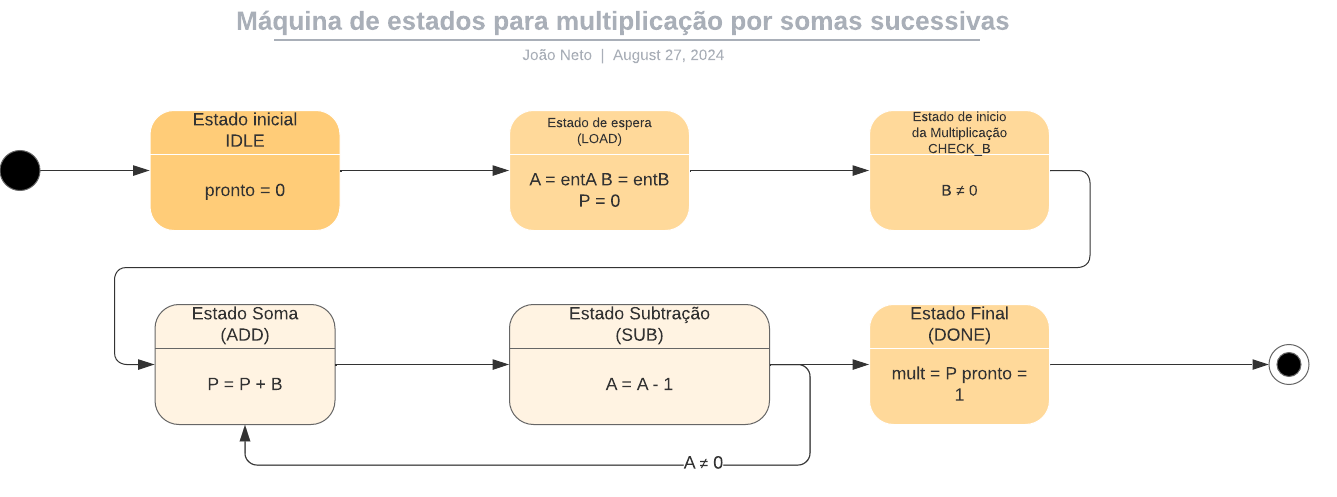
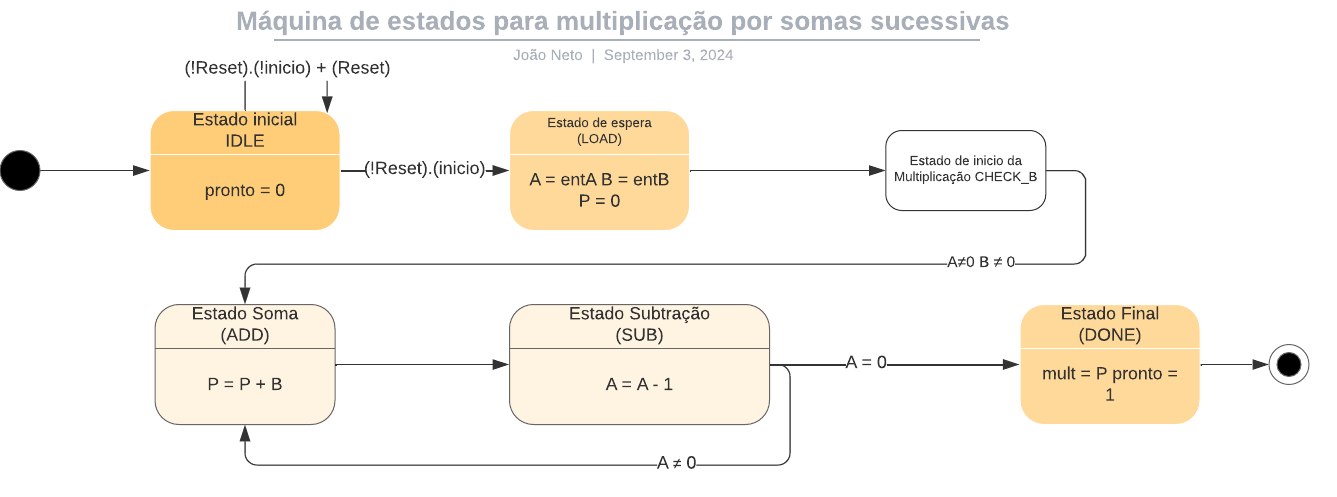
Update screenshots and project files

diff --git a/README.pt-br.md b/README.pt-br.md
@@ -70,9 +70,29 @@ Este algoritmo realiza a multiplicação através de adições repetidas, usando
 
 O sistema usa um somador/subtrator compartilhado para as operações P+B e A-1, realizando cada operação em um ciclo de clock separado para otimização da utilização de recursos.
 
+## Slides
+
+<img src="screenshots/SAM/1.png"/>
+
+<img src="screenshots/SAM/2.png"/>
+
+<img src="screenshots/SAM/3.png"/>
+
+<img src="screenshots/SAM/4.png"/>
+
+<img src="screenshots/SAM/5.png"/>
+
+<img src="screenshots/SAM/6.png"/>
+
+<img src="screenshots/SAM/7.png"/>
+
+<img src="screenshots/SAM/8.png"/>
+
 ## FSM - Máquina de Estados Finitos
 
 <img src="screenshots/fsm.png"/>
+
+<img src="screenshots/fsm_quartus.png"/>
 
 ## Saída no ModelSim
 

diff --git a/README.md b/README.md
@@ -75,6 +75,8 @@ The system uses a shared adder/subtractor for P+B and A-1 operations, performing
 
 <img src="screenshots/fsm.png"/>
 
+<img src="screenshots/fsm_quartus.png"/>
+
 ## Output in ModelSim
 
 <img src="screenshots/output.png"/>
